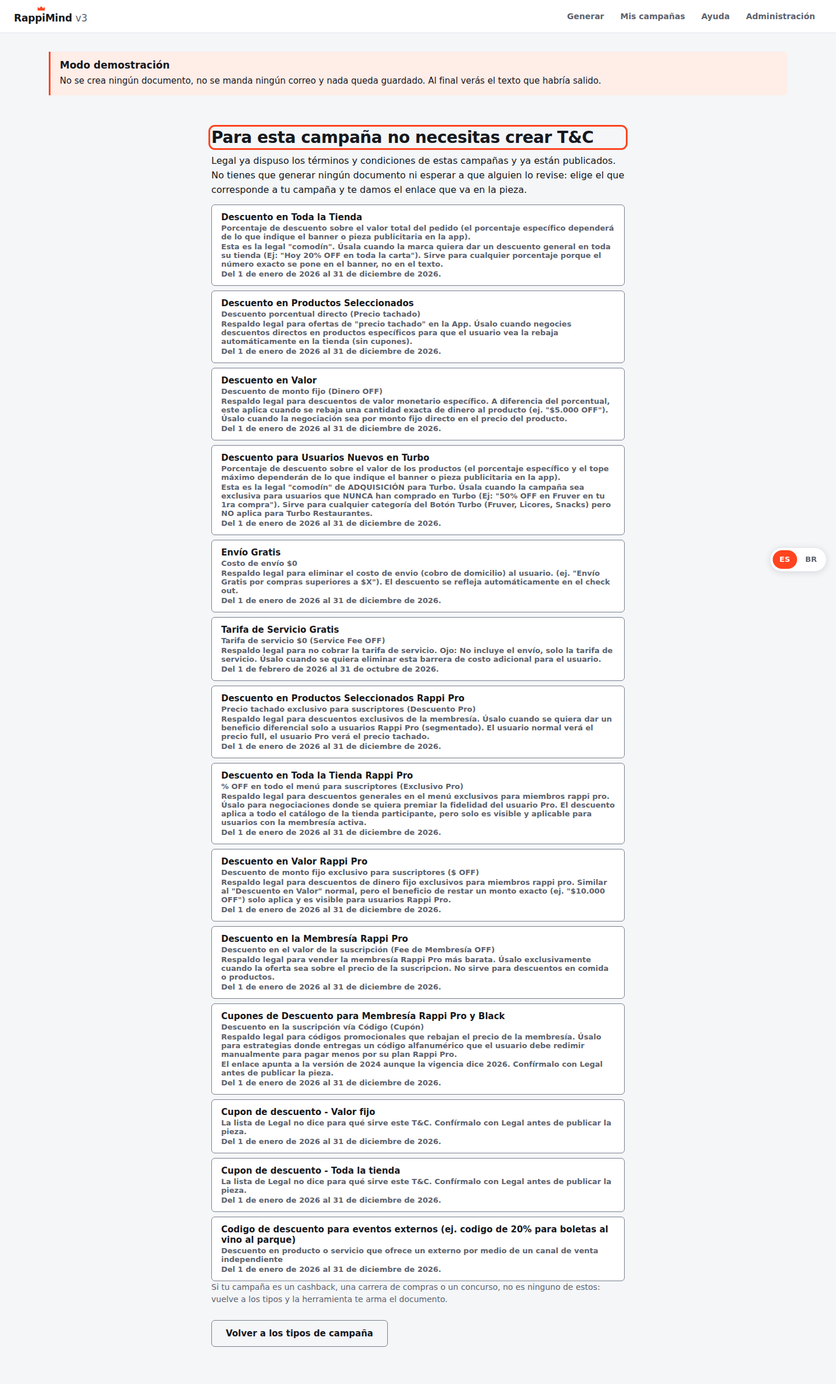
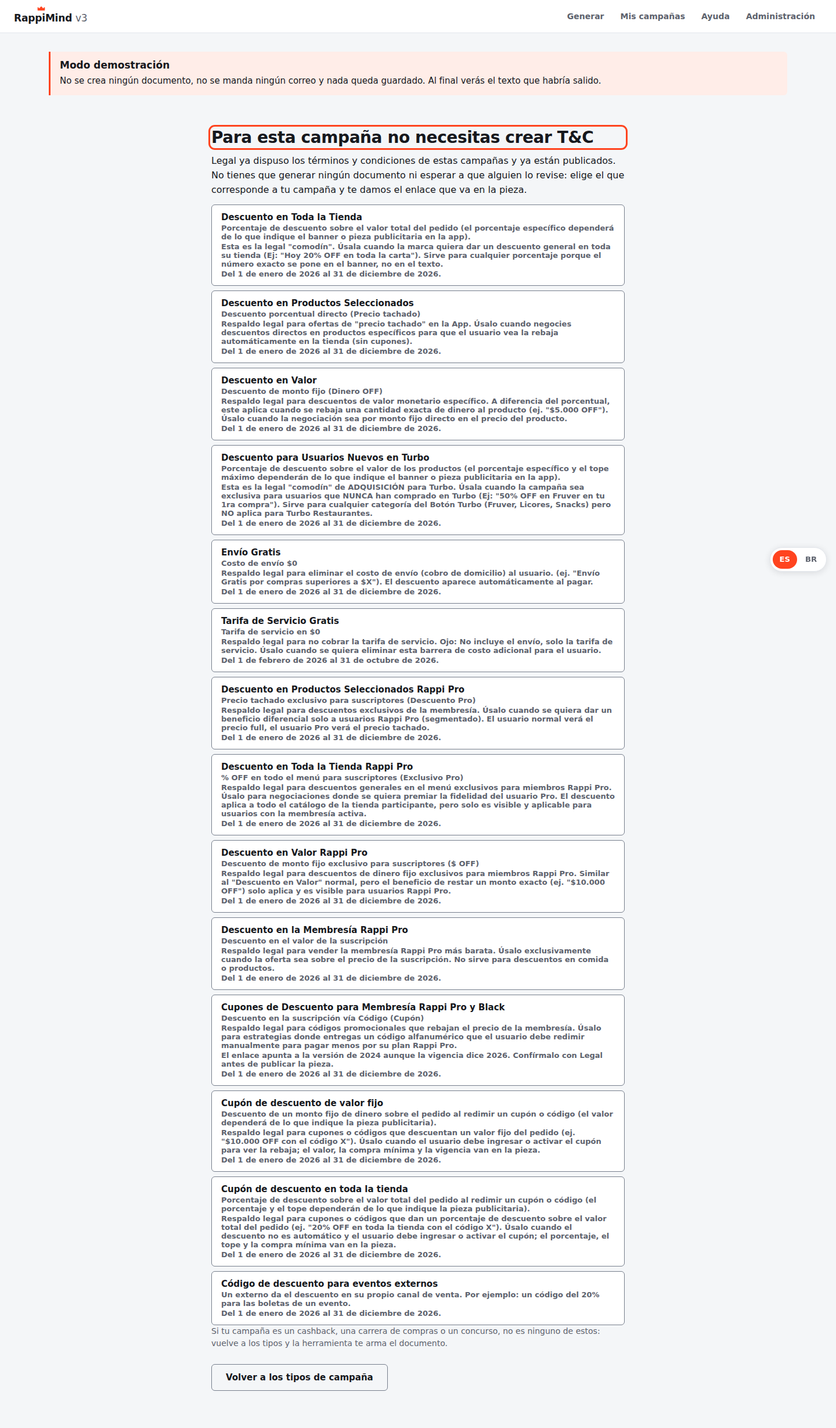
E3, F3 y F4: la lista de T&C que Legal ya publicó
E3. Los dos cupones de descuento ya dicen para qué sirven, con las cuatro
frases de la decisión 46 del encargo 01. Llegaron vacíos en el Excel de Legal y
la pantalla decía que Legal no lo había explicado, justo en lo que más se pide:
el comercial los veía y no sabía cuál elegir. Ese aviso desaparece.

F3. Los dos nombres dejan de llevar guion como signo de puntuación, que era lo
único de toda la herramienta que rompía la regla 8: "Cupón de descuento de valor
fijo" y "Cupón de descuento en toda la tienda". De las dos redacciones
propuestas, entra la del encargo de la interfaz.

F4. Las diez correcciones de la pantalla 30, los tres grupos. Ocho son tildes,
mayúsculas y nombres que se ven en la lista. Dos reescriben palabras de Legal: el
beneficio del T&C del canal de venta externo y el "para qué sirve" del de precio
tachado.

El archivo deja de ser la transcripción literal del Excel en esos diez puntos, y
cada cambio queda anotado en "revisiones" con su fecha.

El aviso de "la lista de Legal no dice para qué sirve" se queda en el código, sin
que ningún T&C lo lleve hoy: si mañana llega una fila sin descripción, la
herramienta tiene que decirlo en vez de inventar una.

Decisiones de Juan del 20 de septiembre de 2026, issue #2.

Claude-Session: https://claude.ai/code/session_01Pj4MaJZ7VJxvGYSCwyeAV7

Changed region(s): [[0.0625, 0.0311, 0.75, 0.9941], [0.9062, 0.3728, 0.9688, 0.4349]]

diff --git a/docs/FRONT_ACTUAL.html b/docs/FRONT_ACTUAL.html
@@ -699,7 +699,7 @@ body.doc-cuerpo {
     <h1>RappiMind v3, el front actual</h1>
     <p class="doc-firma">
       46 pantallas de la herramienta funcionando, congeladas.
-      Generado el 21 de septiembre de 2026 desde <code>30ac3ae</code> de la rama
+      Generado el 21 de septiembre de 2026 desde <code>c9b9954</code> de la rama
       <code>claude/modest-thompson-10gjdr</code>.
     </p>
 
@@ -1211,7 +1211,7 @@ Mis campañas ─┬─ Usar como base ──► formulario con las respuestas c
 <p class="doc-que-hace"><strong>Qué hace el comercial aquí.</strong> Entra por el atajo de debajo de los tipos. Si su campaña es un descuento o un cupón corriente, no tiene que generar nada: ya hay un T&amp;C publicado y solo necesita el enlace.</p>
 <div class="doc-lienzo">
 <div class="rm-pantalla">
-<header class="barra-superior"><span class="marca"><svg viewBox="0 0 24 14" class="corona" aria-hidden="true" focusable="false"><path d="M2 12.5 L2 4 L6.5 7.5 L12 1.5 L17.5 7.5 L22 4 L22 12.5 Z" fill="currentColor" stroke="currentColor" stroke-width="1.6" stroke-linejoin="round"></path></svg>RappiMind <em>v3</em></span><nav aria-label="Secciones"><button class="enlace-nav" type="button">Generar</button><button class="enlace-nav" type="button">Mis campañas</button><button class="enlace-nav" type="button">Ayuda</button><button class="enlace-nav" type="button">Administración</button></nav></header><div id="p31-error-global"></div><div class="pagina pagina-angosta"><h1 tabindex="-1">Para esta campaña no necesitas crear T&amp;C</h1><p>Legal ya dispuso los términos y condiciones de estas campañas y ya están publicados. No tienes que generar ningún documento ni esperar a que alguien lo revise: elige el que corresponde a tu campaña y te damos el enlace que va en la pieza.</p><div class="opciones"><button class="opcion" type="button"><span class="opcion-titulo">Descuento en Toda la Tienda</span><span class="opcion-nota">Porcentaje de descuento sobre el valor total del pedido (el porcentaje específico dependerá de lo que indique el banner o pieza publicitaria en la app).</span><span class="opcion-nota">Esta es la legal "comodín". Úsala cuando la marca quiera dar un descuento general en toda su tienda (Ej: "Hoy 20% OFF en toda la carta"). Sirve para cualquier porcentaje porque el número exacto se pone en el banner, no en el texto.</span><span class="opcion-nota">Del 1 de enero de 2026 al 31 de diciembre de 2026.</span></button><button class="opcion" type="button"><span class="opcion-titulo">Descuento en Productos Seleccionados</span><span class="opcion-nota">Descuento porcentual directo (Precio tachado)</span><span class="opcion-nota">Respaldo legal para ofertas de "precio tachado" en la App. Úsalo cuando negocies descuentos directos en productos específicos para que el usuario vea la rebaja automáticamente en la tienda (sin cupones).</span><span class="opcion-nota">Del 1 de enero de 2026 al 31 de diciembre de 2026.</span></button><button class="opcion" type="button"><span class="opcion-titulo">Descuento en Valor</span><span class="opcion-nota">Descuento de monto fijo (Dinero OFF)</span><span class="opcion-nota">Respaldo legal para descuentos de valor monetario específico. A diferencia del porcentual, este aplica cuando se rebaja una cantidad exacta de dinero al producto (ej. "$5.000 OFF"). Úsalo cuando la negociación sea por monto fijo directo en el precio del producto.</span><span class="opcion-nota">Del 1 de enero de 2026 al 31 de diciembre de 2026.</span></button><button class="opcion" type="button"><span class="opcion-titulo">Descuento para Usuarios Nuevos en Turbo</span><span class="opcion-nota">Porcentaje de descuento sobre el valor de los productos (el porcentaje específico y el tope máximo dependerán de lo que indique el banner o pieza publicitaria en la app).</span><span class="opcion-nota">Esta es la legal "comodín" de ADQUISICIÓN para Turbo. Úsala cuando la campaña sea exclusiva para usuarios que NUNCA han comprado en Turbo (Ej: "50% OFF en Fruver en tu 1ra compra"). Sirve para cualquier categoría del Botón Turbo (Fruver, Licores, Snacks) pero NO aplica para Turbo Restaurantes.</span><span class="opcion-nota">Del 1 de enero de 2026 al 31 de diciembre de 2026.</span></button><button class="opcion" type="button"><span class="opcion-titulo">Envío Gratis</span><span class="opcion-nota">Costo de envío $0</span><span class="opcion-nota">Respaldo legal para eliminar el costo de envio (cobro de domicilio) al usuario. (ej. "Envío Gratis por compras superiores a $X"). El descuento se refleja automáticamente en el check out.</span><span class="opcion-nota">Del 1 de enero de 2026 al 31 de diciembre de 2026.</span></button><button class="opcion" type="button"><span class="opcion-titulo">Tarifa de Servicio Gratis</span><span class="opcion-nota">Tarifa de servicio $0 (Service Fee OFF)</span><span class="opcion-nota">Respaldo legal para no cobrar la tarifa de servicio. Ojo: No incluye el envío, solo la tarifa de servicio. Úsalo cuando se quiera eliminar esta barrera de costo adicional para el usuario.</span><span class="opcion-nota">Del 1 de febrero de 2026 al 31 de octubre de 2026.</span></button><button class="opcion" type="button"><span class="opcion-titulo">Descuento en Productos Seleccionados Rappi Pro</span><span class="opcion-nota">Precio tachado exclusivo para suscriptores (Descuento Pro)</span><span class="opcion-nota">Respaldo legal para descuentos exclusivos de la membresía. Úsalo cuando se quiera dar un beneficio diferencial solo a usuarios Rappi Pro (segmentado). El usuario normal verá el precio full, el usuario Pro verá el precio tachado.</span><span class="opcion-nota">Del 1 de enero de 2026 al 31 de diciembre de 2026.</span></button><button class="opcion" type="button"><span class="opcion-titulo">Descuento en Toda la Tienda Rappi Pro</span><span class="opcion-nota">% OFF en todo el menú para suscriptores (Exclusivo Pro)</span><span class="opcion-nota">Respaldo legal para descuentos generales en el menú exclusivos para miembros rappi pro. Úsalo para negociaciones donde se quiera premiar la fidelidad del usuario Pro. El descuento aplica a todo el catálogo de la tienda participante, pero solo es visible y aplicable para usuarios con la membresía activa.</span><span class="opcion-nota">Del 1 de enero de 2026 al 31 de diciembre de 2026.</span></button><button class="opcion" type="button"><span class="opcion-titulo">Descuento en Valor Rappi Pro</span><span class="opcion-nota">Descuento de monto fijo exclusivo para suscriptores ($ OFF)</span><span class="opcion-nota">Respaldo legal para descuentos de dinero fijo exclusivos para miembros rappi pro. Similar al "Descuento en Valor" normal, pero el beneficio de restar un monto exacto (ej. "$10.000 OFF") solo aplica y es visible para usuarios Rappi Pro.</span><span class="opcion-nota">Del 1 de enero de 2026 al 31 de diciembre de 2026.</span></button><button class="opcion" type="button"><span class="opcion-titulo">Descuento en la Membresía Rappi Pro</span><span class="opcion-nota">Descuento en el valor de la suscripción (Fee de Membresía OFF)</span><span class="opcion-nota">Respaldo legal para vender la membresía Rappi Pro más barata. Úsalo exclusivamente cuando la oferta sea sobre el precio de la suscripcion. No sirve para descuentos en comida o productos.</span><span class="opcion-nota">Del 1 de enero de 2026 al 31 de diciembre de 2026.</span></button><button class="opcion" type="button"><span class="opcion-titulo">Cupones de Descuento para Membresía Rappi Pro y Black</span><span class="opcion-nota">Descuento en la suscripción vía Código (Cupón)</span><span class="opcion-nota">Respaldo legal para códigos promocionales que rebajan el precio de la membresía. Úsalo para estrategias donde entregas un código alfanumérico que el usuario debe redimir manualmente para pagar menos por su plan Rappi Pro.</span><span class="opcion-nota">El enlace apunta a la versión de 2024 aunque la vigencia dice 2026. Confírmalo con Legal antes de publicar la pieza.</span><span class="opcion-nota">Del 1 de enero de 2026 al 31 de diciembre de 2026.</span></button><button class="opcion" type="button"><span class="opcion-titulo">Cupon de descuento - Valor fijo</span><span class="opcion-nota">La lista de Legal no dice para qué sirve este T&amp;C. Confírmalo con Legal antes de publicar la pieza.</span><span class="opcion-nota">Del 1 de enero de 2026 al 31 de diciembre de 2026.</span></button><button class="opcion" type="button"><span class="opcion-titulo">Cupon de descuento - Toda la tienda</span><span class="opcion-nota">La lista de Legal no dice para qué sirve este T&amp;C. Confírmalo con Legal antes de publicar la pieza.</span><span class="opcion-nota">Del 1 de enero de 2026 al 31 de diciembre de 2026.</span></button><button class="opcion" type="button"><span class="opcion-titulo">Codigo de descuento para eventos externos (ej. codigo de 20% para boletas al vino al parque)</span><span class="opcion-nota">Descuento en producto o servicio que ofrece un externo por medio de un canal de venta independiente</span><span class="opcion-nota">Del 1 de enero de 2026 al 31 de diciembre de 2026.</span></button></div><p class="pregunta-ayuda">Si tu campaña es un cashback, una carrera de compras o un concurso, no es ninguno de estos: vuelve a los tipos y la herramienta te arma el documento.</p><div class="fila-botones"><button class="boton boton-secundario" type="button">Volver a los tipos de campaña</button></div></div><div class="selector-idioma" role="group" aria-label="Idioma de la interfaz"><button type="button" title="Español" aria-label="Español" aria-pressed="true">ES</button><button type="button" title="Português" aria-label="Português" aria-pressed="false">BR</button></div>
+<header class="barra-superior"><span class="marca"><svg viewBox="0 0 24 14" class="corona" aria-hidden="true" focusable="false"><path d="M2 12.5 L2 4 L6.5 7.5 L12 1.5 L17.5 7.5 L22 4 L22 12.5 Z" fill="currentColor" stroke="currentColor" stroke-width="1.6" stroke-linejoin="round"></path></svg>RappiMind <em>v3</em></span><nav aria-label="Secciones"><button class="enlace-nav" type="button">Generar</button><button class="enlace-nav" type="button">Mis campañas</button><button class="enlace-nav" type="button">Ayuda</button><button class="enlace-nav" type="button">Administración</button></nav></header><div id="p31-error-global"></div><div class="pagina pagina-angosta"><h1 tabindex="-1">Para esta campaña no necesitas crear T&amp;C</h1><p>Legal ya dispuso los términos y condiciones de estas campañas y ya están publicados. No tienes que generar ningún documento ni esperar a que alguien lo revise: elige el que corresponde a tu campaña y te damos el enlace que va en la pieza.</p><div class="opciones"><button class="opcion" type="button"><span class="opcion-titulo">Descuento en Toda la Tienda</span><span class="opcion-nota">Porcentaje de descuento sobre el valor total del pedido (el porcentaje específico dependerá de lo que indique el banner o pieza publicitaria en la app).</span><span class="opcion-nota">Esta es la legal "comodín". Úsala cuando la marca quiera dar un descuento general en toda su tienda (Ej: "Hoy 20% OFF en toda la carta"). Sirve para cualquier porcentaje porque el número exacto se pone en el banner, no en el texto.</span><span class="opcion-nota">Del 1 de enero de 2026 al 31 de diciembre de 2026.</span></button><button class="opcion" type="button"><span class="opcion-titulo">Descuento en Productos Seleccionados</span><span class="opcion-nota">Descuento porcentual directo (Precio tachado)</span><span class="opcion-nota">Respaldo legal para ofertas de "precio tachado" en la App. Úsalo cuando negocies descuentos directos en productos específicos para que el usuario vea la rebaja automáticamente en la tienda (sin cupones).</span><span class="opcion-nota">Del 1 de enero de 2026 al 31 de diciembre de 2026.</span></button><button class="opcion" type="button"><span class="opcion-titulo">Descuento en Valor</span><span class="opcion-nota">Descuento de monto fijo (Dinero OFF)</span><span class="opcion-nota">Respaldo legal para descuentos de valor monetario específico. A diferencia del porcentual, este aplica cuando se rebaja una cantidad exacta de dinero al producto (ej. "$5.000 OFF"). Úsalo cuando la negociación sea por monto fijo directo en el precio del producto.</span><span class="opcion-nota">Del 1 de enero de 2026 al 31 de diciembre de 2026.</span></button><button class="opcion" type="button"><span class="opcion-titulo">Descuento para Usuarios Nuevos en Turbo</span><span class="opcion-nota">Porcentaje de descuento sobre el valor de los productos (el porcentaje específico y el tope máximo dependerán de lo que indique el banner o pieza publicitaria en la app).</span><span class="opcion-nota">Esta es la legal "comodín" de ADQUISICIÓN para Turbo. Úsala cuando la campaña sea exclusiva para usuarios que NUNCA han comprado en Turbo (Ej: "50% OFF en Fruver en tu 1ra compra"). Sirve para cualquier categoría del Botón Turbo (Fruver, Licores, Snacks) pero NO aplica para Turbo Restaurantes.</span><span class="opcion-nota">Del 1 de enero de 2026 al 31 de diciembre de 2026.</span></button><button class="opcion" type="button"><span class="opcion-titulo">Envío Gratis</span><span class="opcion-nota">Costo de envío $0</span><span class="opcion-nota">Respaldo legal para eliminar el costo de envío (cobro de domicilio) al usuario. (ej. "Envío Gratis por compras superiores a $X"). El descuento aparece automáticamente al pagar.</span><span class="opcion-nota">Del 1 de enero de 2026 al 31 de diciembre de 2026.</span></button><button class="opcion" type="button"><span class="opcion-titulo">Tarifa de Servicio Gratis</span><span class="opcion-nota">Tarifa de servicio en $0</span><span class="opcion-nota">Respaldo legal para no cobrar la tarifa de servicio. Ojo: No incluye el envío, solo la tarifa de servicio. Úsalo cuando se quiera eliminar esta barrera de costo adicional para el usuario.</span><span class="opcion-nota">Del 1 de febrero de 2026 al 31 de octubre de 2026.</span></button><button class="opcion" type="button"><span class="opcion-titulo">Descuento en Productos Seleccionados Rappi Pro</span><span class="opcion-nota">Precio tachado exclusivo para suscriptores (Descuento Pro)</span><span class="opcion-nota">Respaldo legal para descuentos exclusivos de la membresía. Úsalo cuando se quiera dar un beneficio diferencial solo a usuarios Rappi Pro (segmentado). El usuario normal verá el precio full, el usuario Pro verá el precio tachado.</span><span class="opcion-nota">Del 1 de enero de 2026 al 31 de diciembre de 2026.</span></button><button class="opcion" type="button"><span class="opcion-titulo">Descuento en Toda la Tienda Rappi Pro</span><span class="opcion-nota">% OFF en todo el menú para suscriptores (Exclusivo Pro)</span><span class="opcion-nota">Respaldo legal para descuentos generales en el menú exclusivos para miembros Rappi Pro. Úsalo para negociaciones donde se quiera premiar la fidelidad del usuario Pro. El descuento aplica a todo el catálogo de la tienda participante, pero solo es visible y aplicable para usuarios con la membresía activa.</span><span class="opcion-nota">Del 1 de enero de 2026 al 31 de diciembre de 2026.</span></button><button class="opcion" type="button"><span class="opcion-titulo">Descuento en Valor Rappi Pro</span><span class="opcion-nota">Descuento de monto fijo exclusivo para suscriptores ($ OFF)</span><span class="opcion-nota">Respaldo legal para descuentos de dinero fijo exclusivos para miembros Rappi Pro. Similar al "Descuento en Valor" normal, pero el beneficio de restar un monto exacto (ej. "$10.000 OFF") solo aplica y es visible para usuarios Rappi Pro.</span><span class="opcion-nota">Del 1 de enero de 2026 al 31 de diciembre de 2026.</span></button><button class="opcion" type="button"><span class="opcion-titulo">Descuento en la Membresía Rappi Pro</span><span class="opcion-nota">Descuento en el valor de la suscripción</span><span class="opcion-nota">Respaldo legal para vender la membresía Rappi Pro más barata. Úsalo exclusivamente cuando la oferta sea sobre el precio de la suscripción. No sirve para descuentos en comida o productos.</span><span class="opcion-nota">Del 1 de enero de 2026 al 31 de diciembre de 2026.</span></button><button class="opcion" type="button"><span class="opcion-titulo">Cupones de Descuento para Membresía Rappi Pro y Black</span><span class="opcion-nota">Descuento en la suscripción vía Código (Cupón)</span><span class="opcion-nota">Respaldo legal para códigos promocionales que rebajan el precio de la membresía. Úsalo para estrategias donde entregas un código alfanumérico que el usuario debe redimir manualmente para pagar menos por su plan Rappi Pro.</span><span class="opcion-nota">El enlace apunta a la versión de 2024 aunque la vigencia dice 2026. Confírmalo con Legal antes de publicar la pieza.</span><span class="opcion-nota">Del 1 de enero de 2026 al 31 de diciembre de 2026.</span></button><button class="opcion" type="button"><span class="opcion-titulo">Cupón de descuento de valor fijo</span><span class="opcion-nota">Descuento de un monto fijo de dinero sobre el pedido al redimir un cupón o código (el valor dependerá de lo que indique la pieza publicitaria).</span><span class="opcion-nota">Respaldo legal para cupones o códigos que descuentan un valor fijo del pedido (ej. "$10.000 OFF con el código X"). Úsalo cuando el usuario debe ingresar o activar el cupón para ver la rebaja; el valor, la compra mínima y la vigencia van en la pieza.</span><span class="opcion-nota">Del 1 de enero de 2026 al 31 de diciembre de 2026.</span></button><button class="opcion" type="button"><span class="opcion-titulo">Cupón de descuento en toda la tienda</span><span class="opcion-nota">Porcentaje de descuento sobre el valor total del pedido al redimir un cupón o código (el porcentaje y el tope dependerán de lo que indique la pieza publicitaria).</span><span class="opcion-nota">Respaldo legal para cupones o códigos que dan un porcentaje de descuento sobre el valor total del pedido (ej. "20% OFF en toda la tienda con el código X"). Úsalo cuando el descuento no es automático y el usuario debe ingresar o activar el cupón; el porcentaje, el tope y la compra mínima van en la pieza.</span><span class="opcion-nota">Del 1 de enero de 2026 al 31 de diciembre de 2026.</span></button><button class="opcion" type="button"><span class="opcion-titulo">Código de descuento para eventos externos</span><span class="opcion-nota">Un externo da el descuento en su propio canal de venta. Por ejemplo: un código del 20% para las boletas de un evento.</span><span class="opcion-nota">Del 1 de enero de 2026 al 31 de diciembre de 2026.</span></button></div><p class="pregunta-ayuda">Si tu campaña es un cashback, una carrera de compras o un concurso, no es ninguno de estos: vuelve a los tipos y la herramienta te arma el documento.</p><div class="fila-botones"><button class="boton boton-secundario" type="button">Volver a los tipos de campaña</button></div></div><div class="selector-idioma" role="group" aria-label="Idioma de la interfaz"><button type="button" title="Español" aria-label="Español" aria-pressed="true">ES</button><button type="button" title="Português" aria-label="Português" aria-pressed="false">BR</button></div>
 </div>
 </div>
 </article>

diff --git a/demo/index.html b/demo/index.html
@@ -1192,7 +1192,7 @@ if (typeof module !== 'undefined') { module.exports = { CATEGORIAS_TRAVEL: CATEG
 // Fuente: data/tyc_genericos.json
 
 var TYC_GENERICOS = {
-  "version": "2026-09-18",
+  "version": "2026-09-20",
   "fuente": "Excel \"T&C Generales 2026\", hoja \"T&C Generales 2026\", entregado por Juan Camilo Gallego el 17 de septiembre de 2026. Juan avisó que no lo había revisado.",
   "nota": "Estos T&C ya están publicados por Legal. RappiMind no genera documento para ellos: solo entrega el enlace. Los textos de nombre, beneficio y paraQue están copiados tal cual del Excel, sin corregir.",
   "revisiones": [
@@ -1239,6 +1239,25 @@ var TYC_GENERICOS = {
         "codigo_descuento_eventos_externos"
       ],
       "que": "En el Excel el nombre y la descripción traen un doble espacio (\"20%  para\"). Se dejó un solo espacio, con el mismo criterio de las filas 10 y 11: es espacio en blanco, no texto. La descripción repite el nombre; la pantalla no la muestra dos veces."
+    },
+    {
+      "ids": [
+        "cupon_valor_fijo",
+        "cupon_toda_la_tienda"
+      ],
+      "que": "Juan aprobo el 20 de septiembre de 2026 las cuatro frases de la decision 46 del encargo 01: el beneficio y el para que de los dos cupones, que llegaron vacios en el Excel. Con eso desaparece el aviso de que la lista de Legal no dice para que sirven, que era justo en lo que mas se pide."
+    },
+    {
+      "ids": [
+        "cupon_valor_fijo",
+        "cupon_toda_la_tienda",
+        "codigo_descuento_eventos_externos",
+        "tarifa_servicio_gratis",
+        "descuento_membresia_pro",
+        "envio_gratis",
+        "descuento_toda_la_tienda_pro"
+      ],
+      "que": "Las diez correcciones de la pantalla 30 del encargo 02, aprobadas por Juan el 20 de septiembre de 2026. Ocho son tildes, mayusculas y nombres que se ven en la lista; dos reescriben palabras de Legal: el beneficio del T&C del canal de venta externo y el para que del de precio tachado. El archivo deja de ser la transcripcion literal del Excel en esos diez puntos."
     }
   ],
   "paises": {
@@ -1287,7 +1306,7 @@ var TYC_GENERICOS = {
         "id": "envio_gratis",
         "nombre": "Envío Gratis",
         "beneficio": "Costo de envío $0",
-        "paraQue": "Respaldo legal para eliminar el costo de envio (cobro de domicilio) al usuario. (ej. \"Envío Gratis por compras superiores a $X\"). El descuento se refleja automáticamente en el check out.",
+        "paraQue": "Respaldo legal para eliminar el costo de envío (cobro de domicilio) al usuario. (ej. \"Envío Gratis por compras superiores a $X\"). El descuento aparece automáticamente al pagar.",
         "enlace": "https://promos.rappi.com/colombia/enviogratis",
         "vigenciaInicio": "2026-01-01",
         "vigenciaFin": "2026-12-31",
@@ -1296,7 +1315,7 @@ var TYC_GENERICOS = {
       {
         "id": "tarifa_servicio_gratis",
         "nombre": "Tarifa de Servicio Gratis",
-        "beneficio": "Tarifa de servicio $0 (Service Fee OFF)",
+        "beneficio": "Tarifa de servicio en $0",
         "paraQue": "Respaldo legal para no cobrar la tarifa de servicio. Ojo: No incluye el envío, solo la tarifa de servicio. Úsalo cuando se quiera eliminar esta barrera de costo adicional para el usuario.",
         "enlace": "https://promos.rappi.com/colombia/tarifadeservicio",
         "vigenciaInicio": "2026-02-01",
@@ -1317,7 +1336,7 @@ var TYC_GENERICOS = {
         "id": "descuento_toda_la_tienda_pro",
         "nombre": "Descuento en Toda la Tienda Rappi Pro",
         "beneficio": "% OFF en todo el menú para suscriptores (Exclusivo Pro)",
-        "paraQue": "Respaldo legal para descuentos generales en el menú exclusivos para miembros rappi pro. Úsalo para negociaciones donde se quiera premiar la fidelidad del usuario Pro. El descuento aplica a todo el catálogo de la tienda participante, pero solo es visible y aplicable para usuarios con la membresía activa.",
+        "paraQue": "Respaldo legal para descuentos generales en el menú exclusivos para miembros Rappi Pro. Úsalo para negociaciones donde se quiera premiar la fidelidad del usuario Pro. El descuento aplica a todo el catálogo de la tienda participante, pero solo es visible y aplicable para usuarios con la membresía activa.",
         "enlace": "https://promos.rappi.com/colombia/2026/descuento-en-toda-la-tienda-rappipro",
         "vigenciaInicio": "2026-01-01",
         "vigenciaFin": "2026-12-31",
@@ -1327,7 +1346,7 @@ var TYC_GENERICOS = {
         "id": "descuento_en_valor_pro",
         "nombre": "Descuento en Valor Rappi Pro",
         "beneficio": "Descuento de monto fijo exclusivo para suscriptores ($ OFF)",
-        "paraQue": "Respaldo legal para descuentos de dinero fijo exclusivos para miembros rappi pro. Similar al \"Descuento en Valor\" normal, pero el beneficio de restar un monto exacto (ej. \"$10.000 OFF\") solo aplica y es visible para usuarios Rappi Pro.",
+        "paraQue": "Respaldo legal para descuentos de dinero fijo exclusivos para miembros Rappi Pro. Similar al \"Descuento en Valor\" normal, pero el beneficio de restar un monto exacto (ej. \"$10.000 OFF\") solo aplica y es visible para usuarios Rappi Pro.",
         "enlace": "https://promos.rappi.com/colombia/2026/descuento-en-valor-rappi-pro",
         "vigenciaInicio": "2026-01-01",
         "vigenciaFin": "2026-12-31",
@@ -1336,8 +1355,8 @@ var TYC_GENERICOS = {
       {
         "id": "descuento_membresia_pro",
         "nombre": "Descuento en la Membresía Rappi Pro",
-        "beneficio": "Descuento en el valor de la suscripción (Fee de Membresía OFF)",
-        "paraQue": "Respaldo legal para vender la membresía Rappi Pro más barata. Úsalo exclusivamente cuando la oferta sea sobre el precio de la suscripcion. No sirve para descuentos en comida o productos.",
+        "beneficio": "Descuento en el valor de la suscripción",
+        "paraQue": "Respaldo legal para vender la membresía Rappi Pro más barata. Úsalo exclusivamente cuando la oferta sea sobre el precio de la suscripción. No sirve para descuentos en comida o productos.",
         "enlace": "https://promos.rappi.com/colombia/2026/descuentos-en-membresia-rappipro",
         "vigenciaInicio": "2026-01-01",
         "vigenciaFin": "2026-12-31",
@@ -1356,9 +1375,9 @@ var TYC_GENERICOS = {
       },
       {
         "id": "cupon_valor_fijo",
-        "nombre": "Cupon de descuento - Valor fijo",
-        "beneficio": "",
-        "paraQue": "",
+        "nombre": "Cupón de descuento de valor fijo",
+        "beneficio": "Descuento de un monto fijo de dinero sobre el pedido al redimir un cupón o código (el valor dependerá de lo que indique la pieza publicitaria).",
+        "paraQue": "Respaldo legal para cupones o códigos que descuentan un valor fijo del pedido (ej. \"$10.000 OFF con el código X\"). Úsalo cuando el usuario debe ingresar o activar el cupón para ver la rebaja; el valor, la compra mínima y la vigencia van en la pieza.",
         "enlace": "https://promos.rappi.com/colombia/cuponvalorfijoco",
         "vigenciaInicio": "2026-01-01",
         "vigenciaFin": "2026-12-31",
@@ -1366,9 +1385,9 @@ var TYC_GENERICOS = {
       },
       {
         "id": "cupon_toda_la_tienda",
-        "nombre": "Cupon de descuento - Toda la tienda",
-        "beneficio": "",
-        "paraQue": "",
+        "nombre": "Cupón de descuento en toda la tienda",
+        "beneficio": "Porcentaje de descuento sobre el valor total del pedido al redimir un cupón o código (el porcentaje y el tope dependerán de lo que indique la pieza publicitaria).",
+        "paraQue": "Respaldo legal para cupones o códigos que dan un porcentaje de descuento sobre el valor total del pedido (ej. \"20% OFF en toda la tienda con el código X\"). Úsalo cuando el descuento no es automático y el usuario debe ingresar o activar el cupón; el porcentaje, el tope y la compra mínima van en la pieza.",
         "enlace": "https://promos.rappi.com/colombia/cupondescuentoco",
         "vigenciaInicio": "2026-01-01",
         "vigenciaFin": "2026-12-31",
@@ -1376,9 +1395,9 @@ var TYC_GENERICOS = {
       },
       {
         "id": "codigo_descuento_eventos_externos",
-        "nombre": "Codigo de descuento para eventos externos (ej. codigo de 20% para boletas al vino al parque)",
-        "beneficio": "Descuento en producto o servicio que ofrece un externo por medio de un canal de venta independiente",
-        "paraQue": "Codigo de descuento para eventos externos (ej. codigo de 20% para boletas al vino al parque)",
+        "nombre": "Código de descuento para eventos externos",
+        "beneficio": "Un externo da el descuento en su propio canal de venta. Por ejemplo: un código del 20% para las boletas de un evento.",
+        "paraQue": "Código de descuento para eventos externos",
         "enlace": "https://promos.rappi.com/colombia/2026/9/7/trminos-y-condiciones-cupones-off",
         "vigenciaInicio": "2026-01-01",
         "vigenciaFin": "2026-12-31",

diff --git a/pruebas/tyc_genericos.test.js b/pruebas/tyc_genericos.test.js
@@ -104,14 +104,64 @@ test('del T&C que Legal repitió se ofrece uno solo, el de la ruta con año', ()
   assert.strictEqual(tycGenericoPorId('CO', 'descuento_productos_seleccionados_bis'), null);
 });
 
-test('los dos cupones sin descripción no llevan una inventada', () => {
+test('los dos cupones ya dicen para qué sirven, con las frases que Juan aprobó', () => {
+  /*
+   * Las filas 14 y 15 del Excel llegaron sin Beneficio Ofrecido ni Descripción,
+   * y la herramienta lo decía en vez de inventar una. Cupones es de lo que más
+   * se pide, así que el comercial los veía y no sabía cuál elegir.
+   *
+   * Juan aprobó las cuatro frases el 20 de septiembre de 2026 (punto E3, con
+   * los textos de la decisión 46 del encargo 01).
+   */
+  const valorFijo = tycGenericoPorId('CO', 'cupon_valor_fijo');
+  assert.strictEqual(valorFijo.beneficio,
+    'Descuento de un monto fijo de dinero sobre el pedido al redimir un cupón o código (el valor dependerá de lo que indique la pieza publicitaria).');
+  assert.strictEqual(valorFijo.paraQue,
+    'Respaldo legal para cupones o códigos que descuentan un valor fijo del pedido (ej. "$10.000 OFF con el código X"). Úsalo cuando el usuario debe ingresar o activar el cupón para ver la rebaja; el valor, la compra mínima y la vigencia van en la pieza.');
+
+  const todaLaTienda = tycGenericoPorId('CO', 'cupon_toda_la_tienda');
+  assert.strictEqual(todaLaTienda.beneficio,
+    'Porcentaje de descuento sobre el valor total del pedido al redimir un cupón o código (el porcentaje y el tope dependerán de lo que indique la pieza publicitaria).');
+  assert.strictEqual(todaLaTienda.paraQue,
+    'Respaldo legal para cupones o códigos que dan un porcentaje de descuento sobre el valor total del pedido (ej. "20% OFF en toda la tienda con el código X"). Úsalo cuando el descuento no es automático y el usuario debe ingresar o activar el cupón; el porcentaje, el tope y la compra mínima van en la pieza.');
+
+  // Y ya no sale el aviso de que Legal no explicó para qué sirven.
   for (const id of ['cupon_valor_fijo', 'cupon_toda_la_tienda']) {
     const tyc = tycGenericoPorId('CO', id);
-    assert.strictEqual(tyc.paraQue, '', id + ': alguien le escribió una descripción que Legal no dio');
-    assert.strictEqual(tyc.beneficio, '', id + ': alguien le escribió un beneficio que Legal no dio');
-    assert.ok(/no dice para qué sirve/i.test(descripcionDeTycGenerico(tyc)),
-      id + ' no avisa que falta la descripción');
+    assert.strictEqual(descripcionDeTycGenerico(tyc), tyc.paraQue, id);
+    assert.ok(!/no dice para qué sirve/i.test(descripcionDeTycGenerico(tyc)), id);
   }
+});
+
+test('el aviso de que falta la descripción sigue existiendo para el día que haga falta', () => {
+  // Ningún T&C lo lleva hoy, así que se construye uno: si mañana Legal manda
+  // una fila sin descripción, la herramienta tiene que decirlo en vez de
+  // dejar un hueco o inventar una.
+  assert.ok(/no dice para qué sirve/i.test(descripcionDeTycGenerico({ paraQue: '' })));
+  assert.ok(/no dice para qué sirve/i.test(descripcionDeTycGenerico({})));
+});
+
+test('ningún nombre de la lista lleva guion como signo de puntuación', () => {
+  // Regla 8 del proyecto. Los dos cupones eran los únicos textos visibles de
+  // toda la herramienta que lo rompían, y venían copiados del Excel de Legal.
+  // Juan los cambió el 20 de septiembre de 2026 (punto F3).
+  for (const tyc of tycGenericosDelPais('CO')) {
+    assert.strictEqual(/ - /.test(tyc.nombre), false, tyc.id + ': ' + tyc.nombre);
+  }
+  assert.strictEqual(tycGenericoPorId('CO', 'cupon_valor_fijo').nombre, 'Cupón de descuento de valor fijo');
+  assert.strictEqual(tycGenericoPorId('CO', 'cupon_toda_la_tienda').nombre, 'Cupón de descuento en toda la tienda');
+});
+
+test('las diez correcciones de ortografía quedaron aplicadas', () => {
+  // Punto F4. El archivo era la transcripción literal del Excel, con sus
+  // erratas a la vista. Juan aprobó los tres grupos el 20 de septiembre.
+  const todos = JSON.stringify(tycGenericosDelPais('CO'));
+  for (const errata of ['el costo de envio', 'el precio de la suscripcion', 'miembros rappi pro',
+    'Codigo de descuento', 'Service Fee OFF', 'Fee de Membresía OFF', 'check out']) {
+    assert.strictEqual(todos.indexOf(errata), -1, 'sigue estando: ' + errata);
+  }
+  assert.strictEqual(tycGenericoPorId('CO', 'codigo_descuento_eventos_externos').beneficio,
+    'Un externo da el descuento en su propio canal de venta. Por ejemplo: un código del 20% para las boletas de un evento.');
 });
 
 test('la descripción que sí trae el Excel se muestra tal cual', () => {

diff --git a/.claude/skills/flujo-y-ux/scripts/recorrer-flujo.js b/.claude/skills/flujo-y-ux/scripts/recorrer-flujo.js
@@ -472,11 +472,15 @@ async function recorrer() {
   const tarjetasTyc = await pagina.evaluate(() => document.querySelectorAll('.opcion').length);
   revisar('salen los catorce T&C generales', tarjetasTyc === 14, String(tarjetasTyc));
 
-  // Lo que Legal dejó sin resolver se dice antes del enlace, no después. Los dos
-  // cupones llegaron del Excel sin descripción y son los que hoy lo prueban: el
-  // "Descuento en Productos Seleccionados" dejó de estar repetido con la
-  // decisión 45 y ya no tiene nada pendiente.
-  await clic('Cupon de descuento - Valor fijo');
+  // Lo que Legal dejó sin resolver se dice antes del enlace, no después. Hoy lo
+  // prueban los cupones de membresía, cuyo enlace apunta a la versión de 2024
+  // aunque la vigencia diga 2026: hasta que alguien lo republique, el comercial
+  // tiene que enterarse antes de copiar el enlace.
+  //
+  // Antes lo probaban los dos cupones de descuento, que llegaron del Excel sin
+  // descripción. Juan las escribió el 20 de septiembre de 2026 (punto E3) y ya
+  // no tienen nada pendiente.
+  await clic('Cupones de Descuento para Membresía Rappi Pro y Black');
   await pagina.waitForTimeout(400);
   const conPendiente = await texto();
   revisar('un T&C con algo pendiente avisa antes de dar el enlace',
